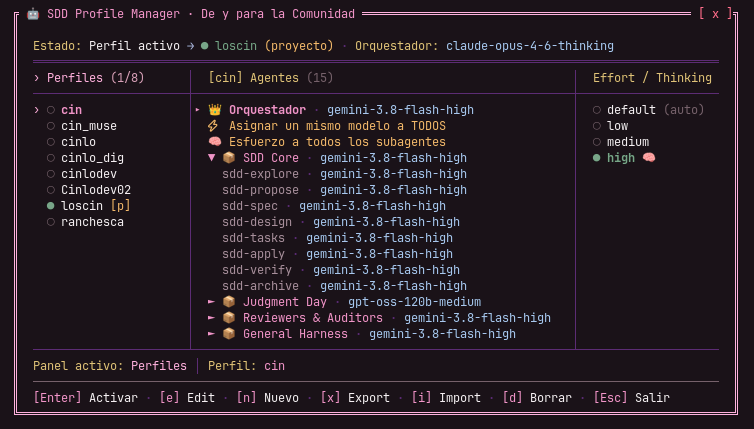
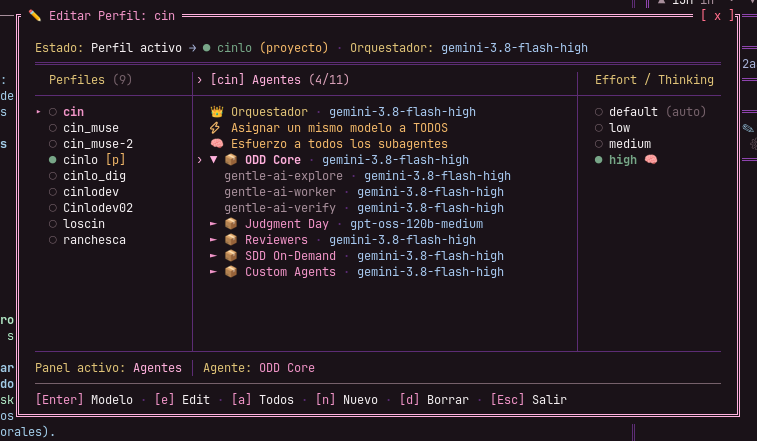
docs: update main cockpit screenshot and category references in README

diff --git a/README.md b/README.md
@@ -108,7 +108,7 @@ pi remove https://github.com/CinloDev/pi-sdd-profiles
   - Exportá cualquier perfil a `.json` con `x` (con resolución inteligente de rutas `~/` y limpieza de claves sintéticas).
   - Importá perfiles con `i` mediante un **mini-explorador de archivos interactivo** en la TUI (carpetas `📁`, archivos `.json` `📄`, subida de nivel `..`, soporte para selección de scope `[1] Proyecto` vs `[2] Global`, y diálogo inteligente de resolución de conflictos con sugerencia de renombrado o sobreescritura).
 - 🖱 **Soporte Completo de Mouse (Ruedita y Clics)**: Hacé scroll con la rueda del mouse por listas largas, seleccioná filas con un clic, activá perfiles o abrí selectores con doble clic, y clickeá directamente los botones de acción (`[Activar]`, `[Edit]`, `[Nuevo]`, `[Export]`, `[Import]`, `[Borrar]`, `[Salir]`) o el botón `[ x ]` superior.
-- 📐 **Vista Adaptativa de hasta 15 Filas**: Mayor altura visual para visualizar de un tirón categorías completas como `SDD Core` sin necesidad de scroll excesivo, adaptándose a pantallas más reducidas.
+- 📐 **Vista Adaptativa de hasta 15 Filas**: Mayor altura visual para visualizar de un tirón categorías completas como `ODD Core` o `SDD On-Demand` sin necesidad de scroll excesivo, adaptándose a pantallas más reducidas.
 - ⚡ **Cambio en caliente**: Alterná perfiles y sincronizá el modelo de sesión y los subagentes al instante.
 - 📦 **Perfiles Estándar Incluidos**:
   - `balanced-default`: Equilibrio entre calidad y costo con Claude Sonnet 4.5 y Claude Haiku 4.5.
@@ -136,7 +136,7 @@ Si utilizás Pi en modo fullscreen (`--tui-mode fullscreen` o en `/settings` con
 - `↑` / `↓` o `j` / `k`: Moverse entre los ítems de la columna activa.
 - `Tab` / `Shift + Tab` o `←` / `→`: Alternar foco entre **Perfiles**, **Agentes** y **Effort**.
 - `Enter`: En Perfiles activa el perfil en caliente; en Agentes abre el selector de modelos; en Effort aplica el nivel de razonamiento.
-- `Espacio`: En Agentes pliega o despliega categorías del acordeón (`▼ SDD Core`, `► Judgment Day`, etc.).
+- `Espacio`: En Agentes pliega o despliega categorías del acordeón (`▼ ODD Core`, `► Judgment Day`, `► SDD On-Demand`, etc.).
 - `e`: Modo edición de agentes.
 - `r`: Renombrar el perfil seleccionado.
 - `n`: Crear un nuevo perfil personalizado.
